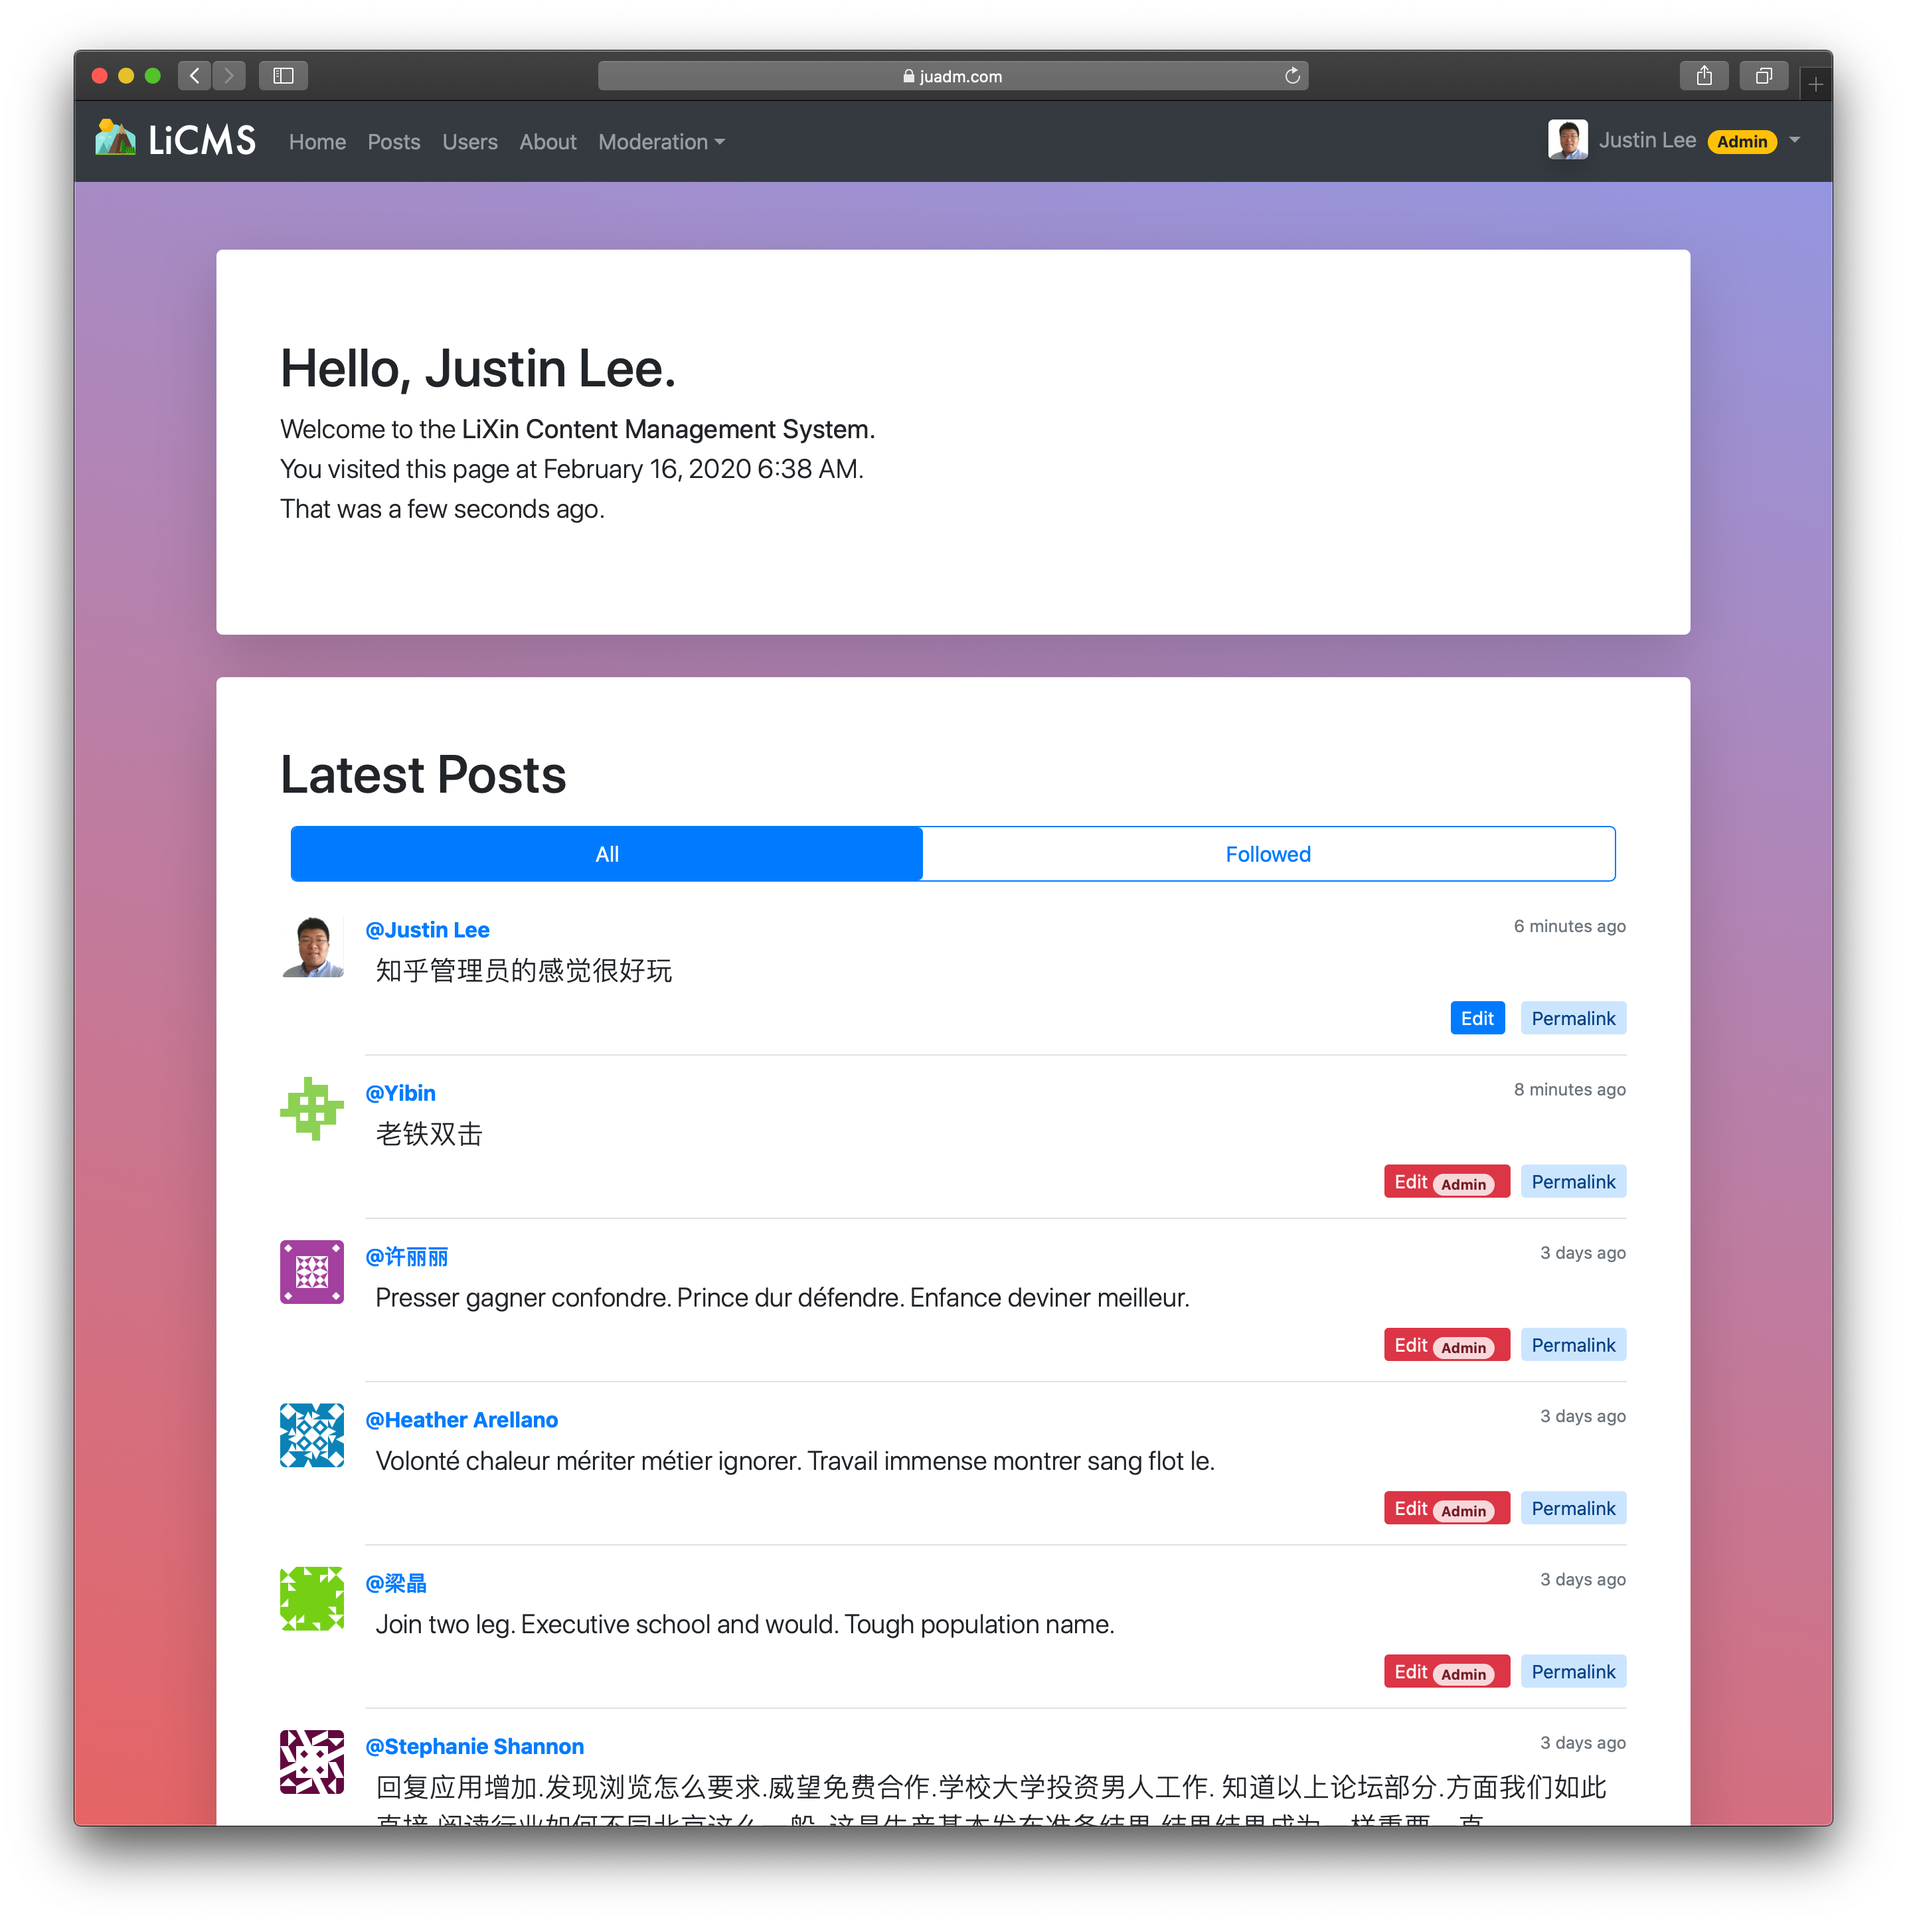
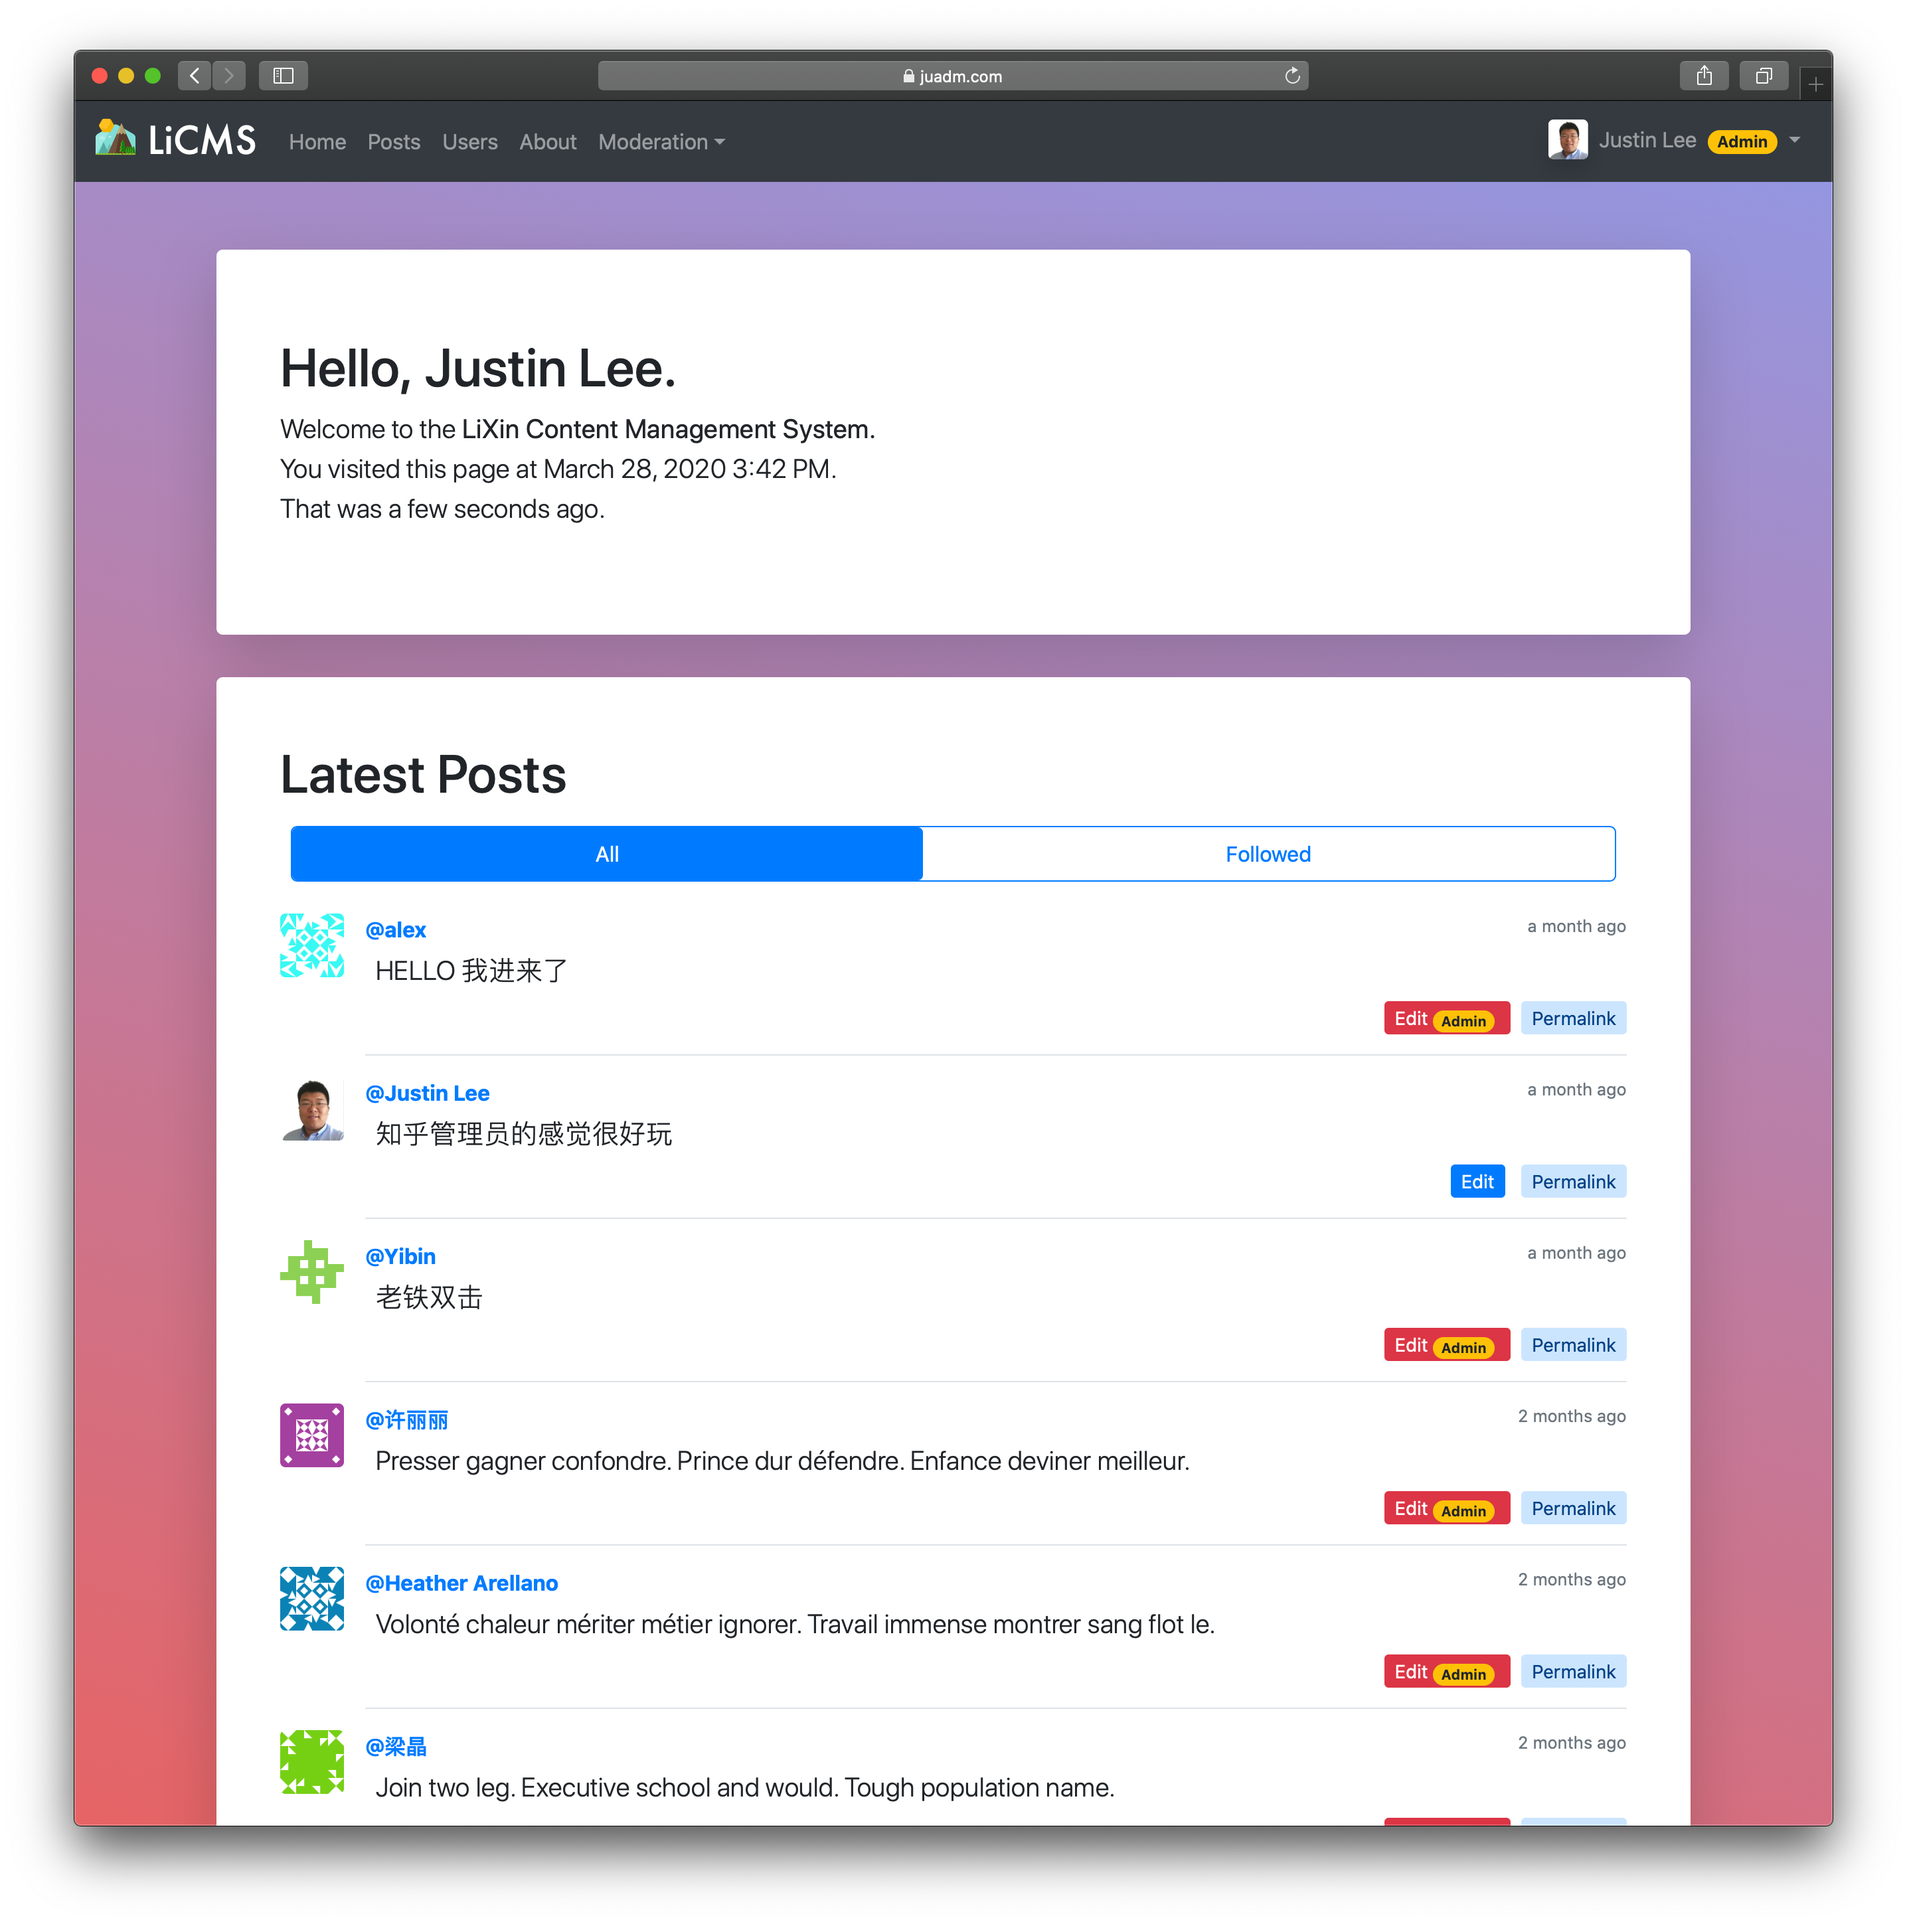
Updated deps and screenshot and post_reboot script

diff --git a/README.md b/README.md
@@ -4,8 +4,8 @@
 LiCMS (Lixin Content Management System) is a content management system used for blogging, implemented with Flask.
 
 ## Requirements
-> - Python `3.7.6`
-> - Docker `19.03.5`
+> - Python `3.7.7`
+> - Docker `19.03.8`
 > - DataBase depending on deployment method (default in `config.py`, cen be edited as you wish)
 >   - Heroku: `mysql`
 >   - Docker: `mysql`
